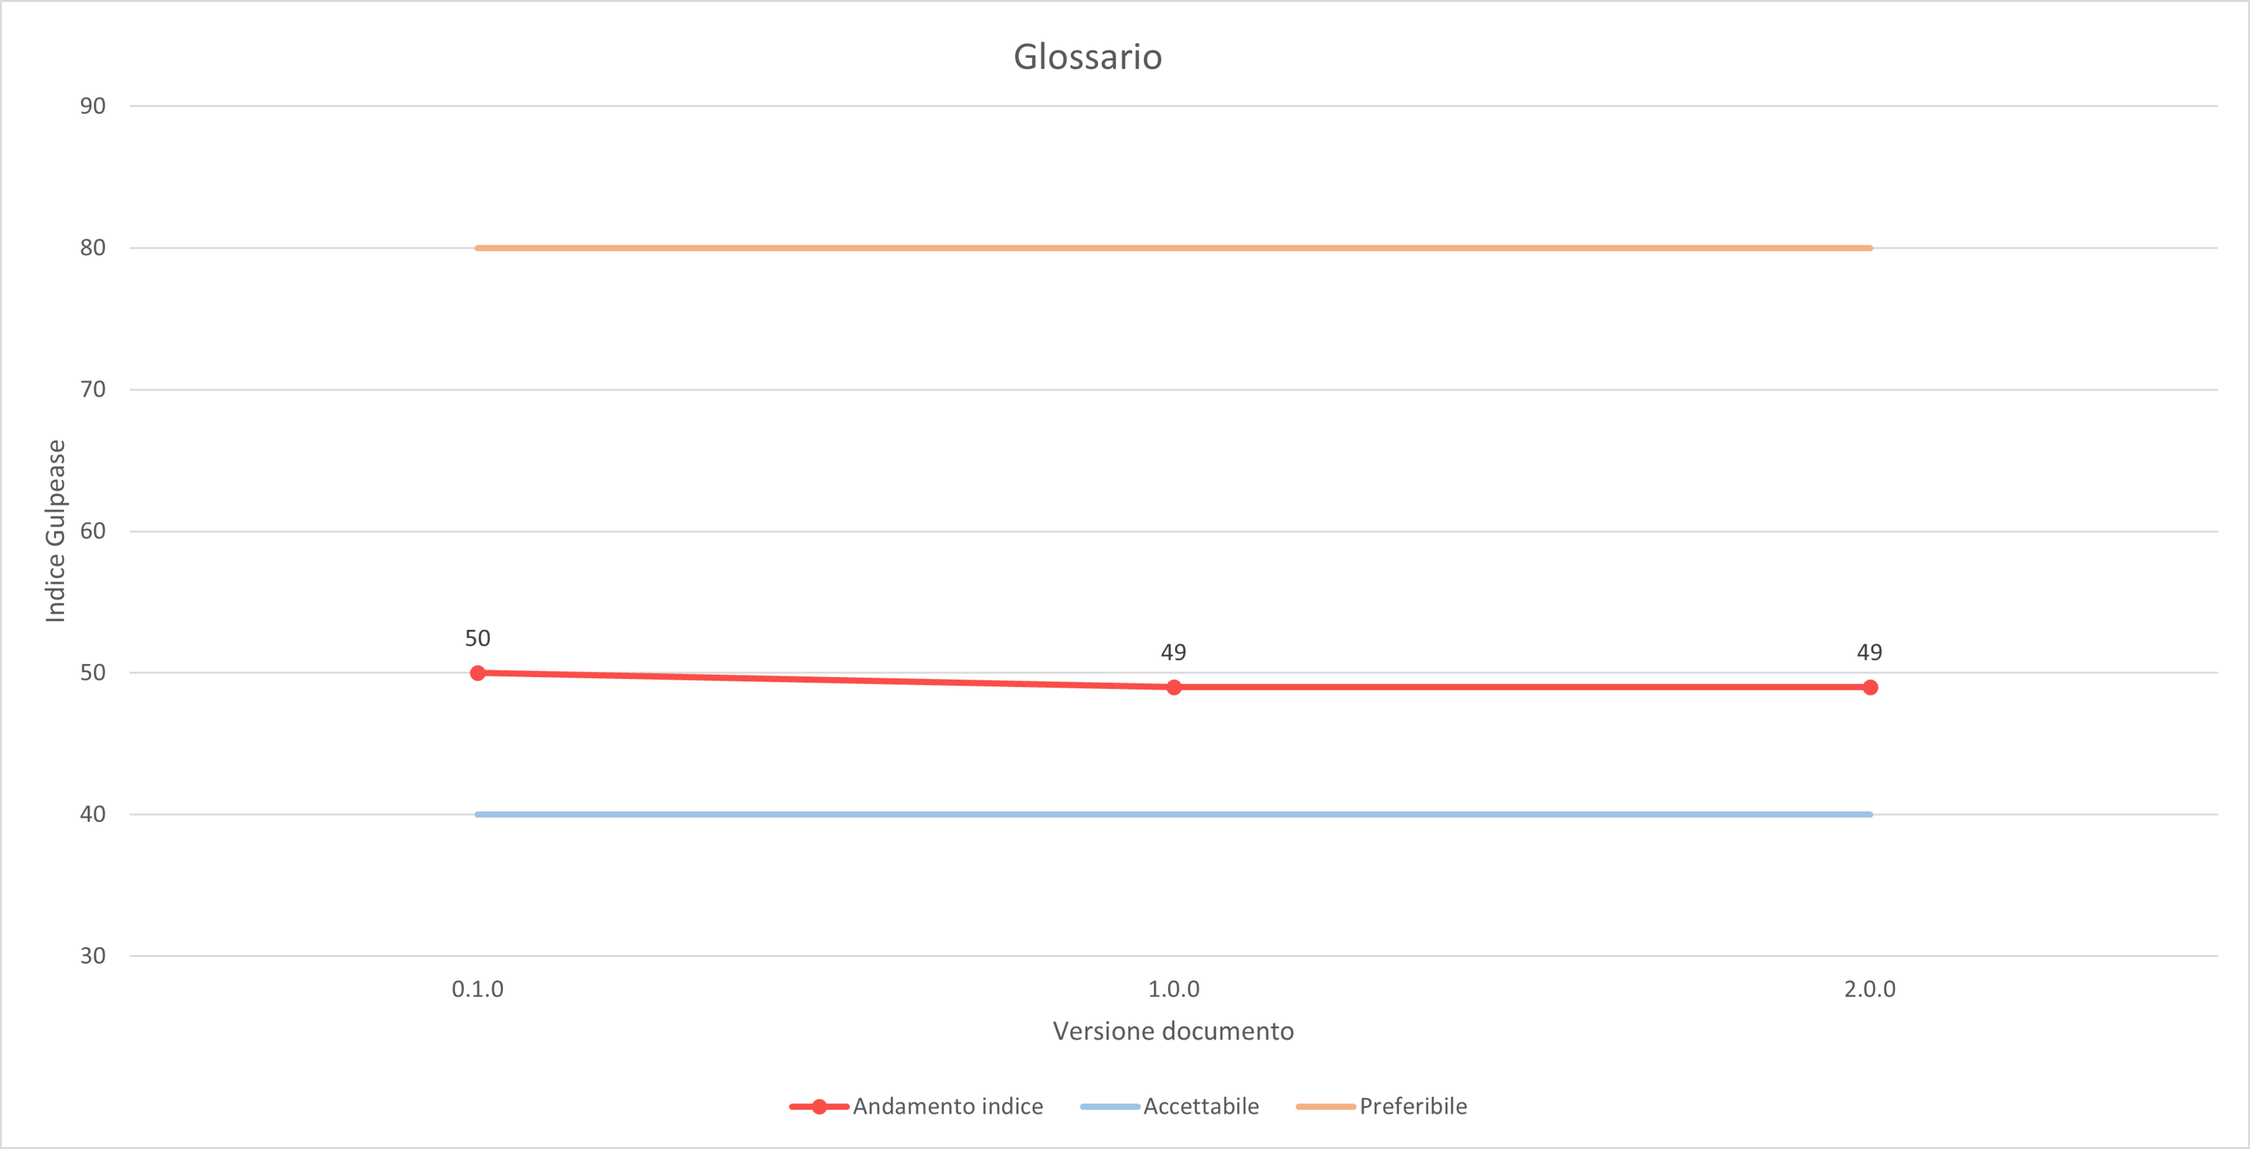
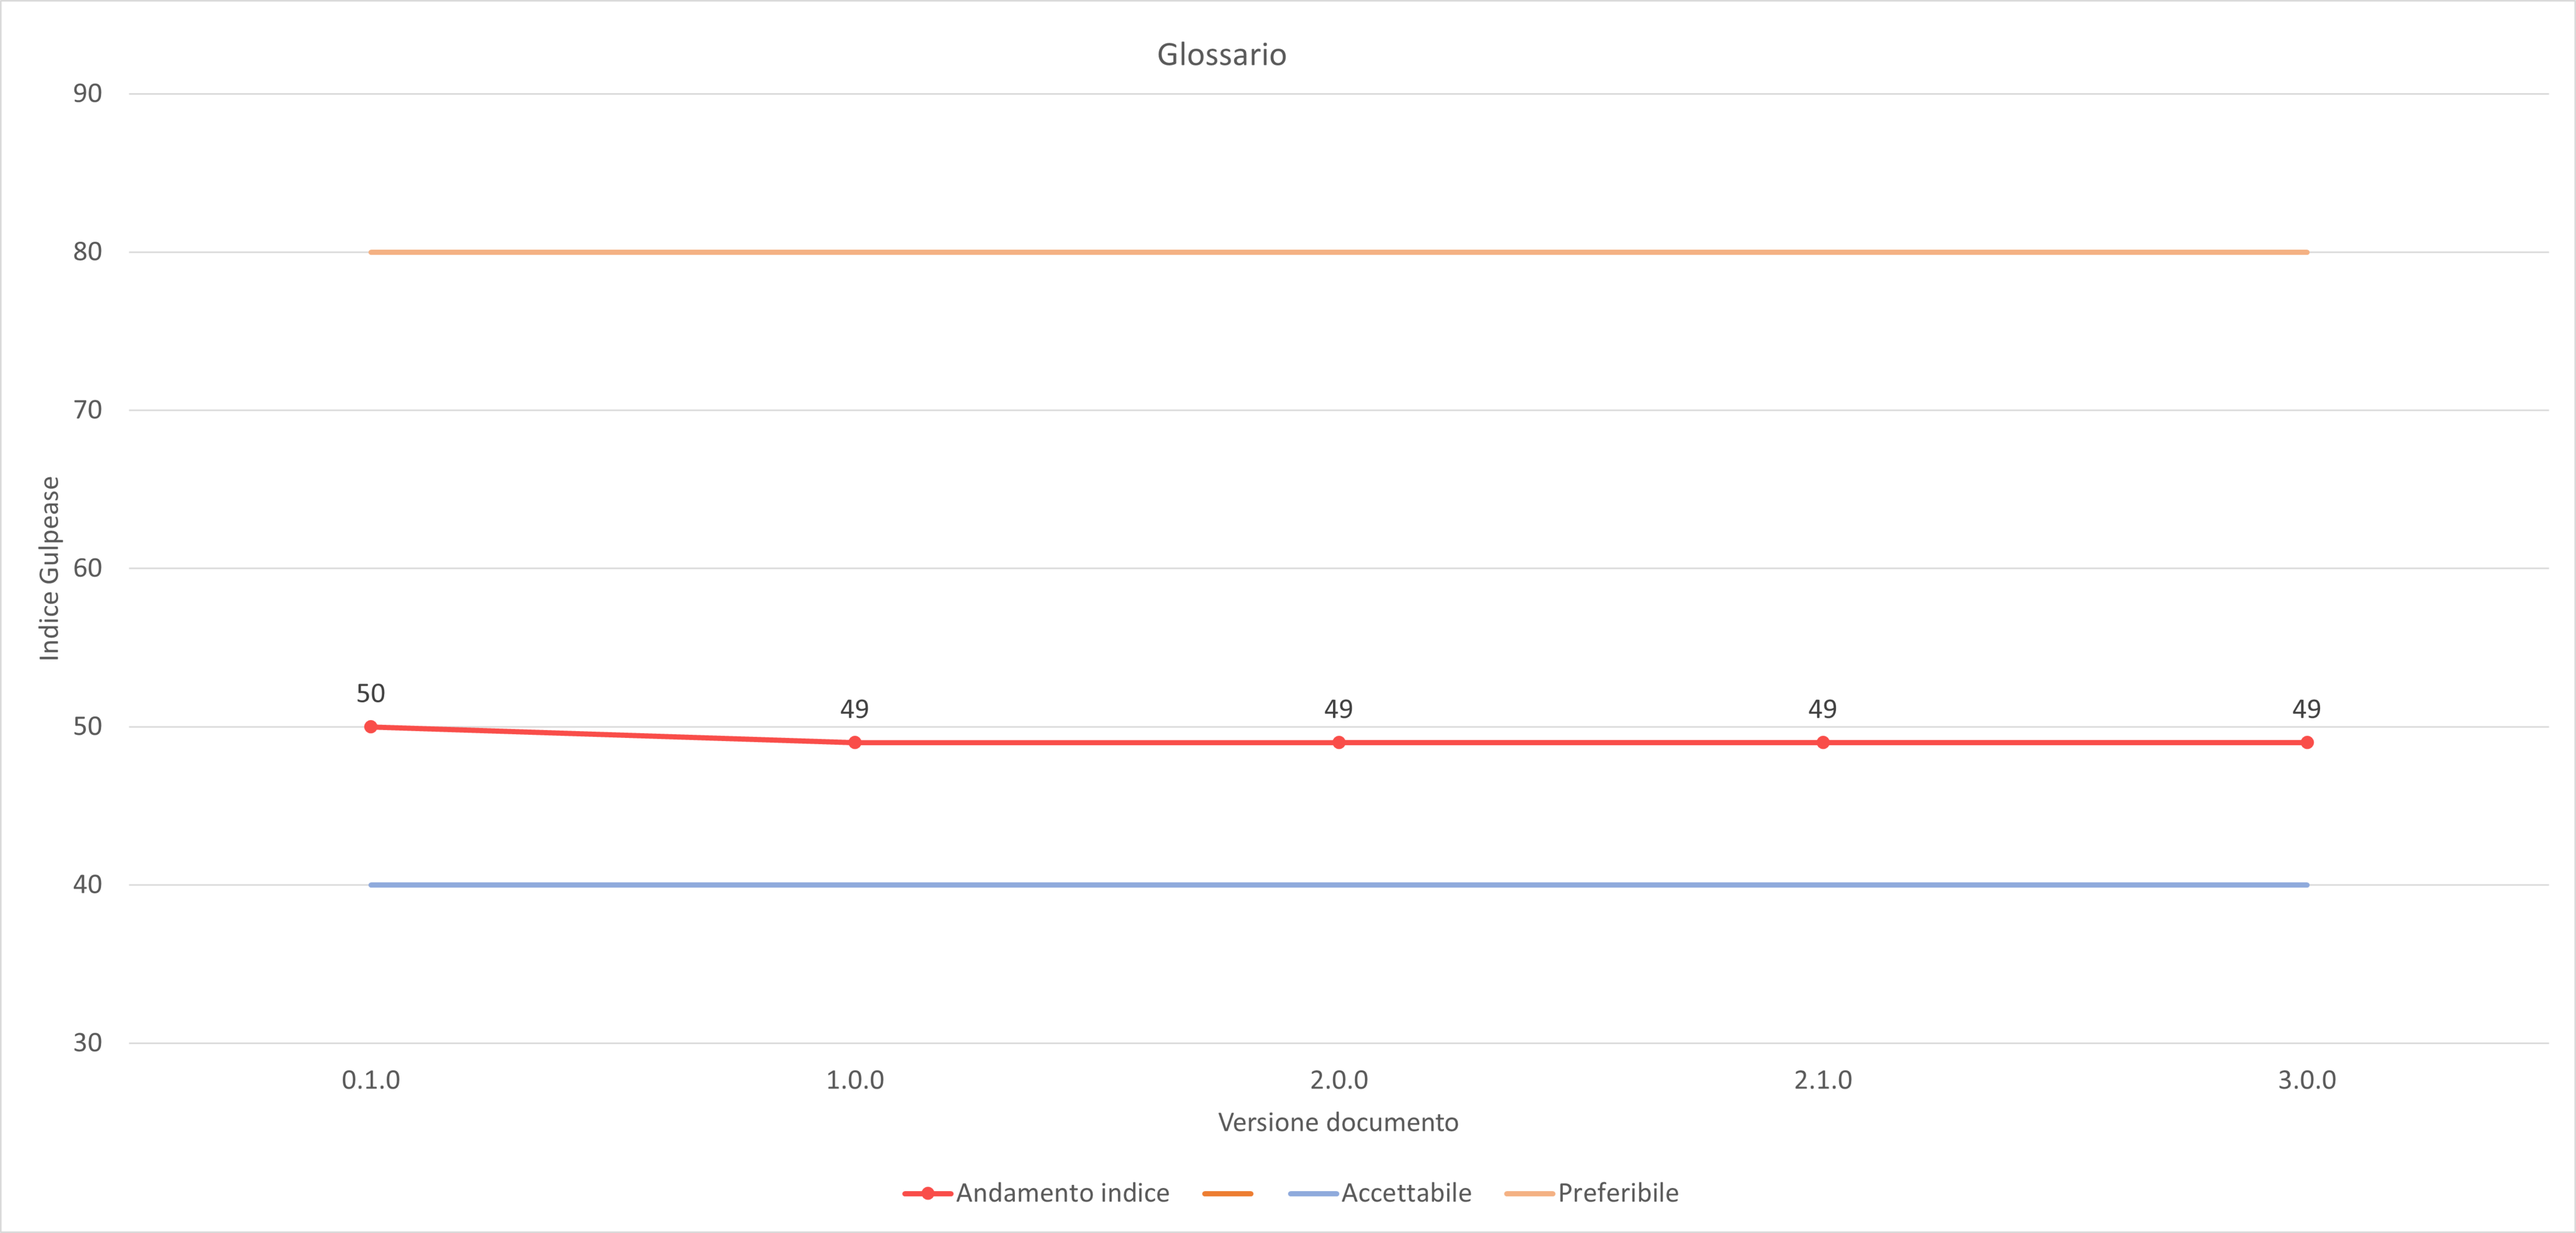
aggiunto glossario gulpease

diff --git a/RQ/Documenti Esterni/Piano di Qualifica/sezioni/resocontoAttivitàVerifica.tex b/RQ/Documenti Esterni/Piano di Qualifica/sezioni/resocontoAttivitàVerifica.tex
@@ -109,7 +109,7 @@ I dati riportati nel seguito fanno riferimento a:
         \textit{Studio di Fattibilità}          & 74         & 74         & /           & /           &             & Superato       \\
         \textit{Maintainer Manual}              & /          & /          & /           & 70          &             & Superato       \\
         \textit{User Manual}                    & /          & /          & /           & 78          &             & Superato       \\
-        \textit{Glossario}                      & 49         & 49         & 49          &             &             & Superato       \\
+        \textit{Glossario}                      & 49         & 49         & 49          & 49          &             & Superato       \\
         \textit{Verbali interni (media)}        & 67         & 67         & 56          & 59          &             & Superato       \\
         \textit{Verbali esterni (media)}        & 71         & 71         & 60          & 57          &             & Superato       \\
         \rowcolor{white}
